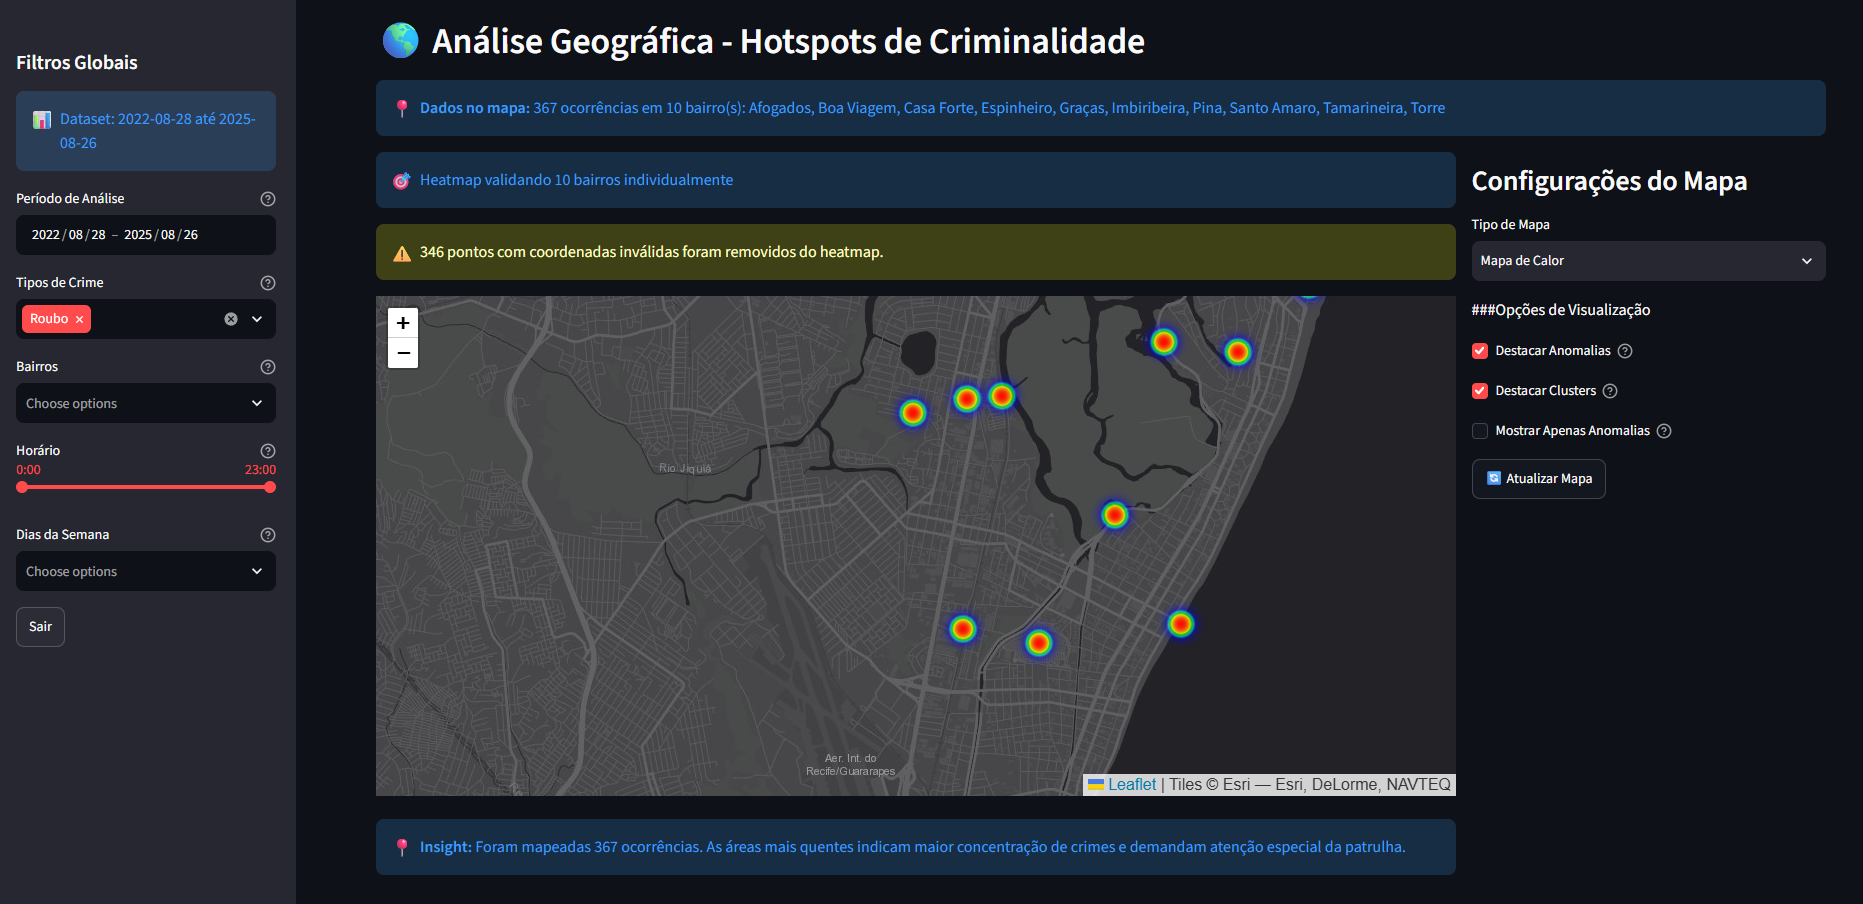
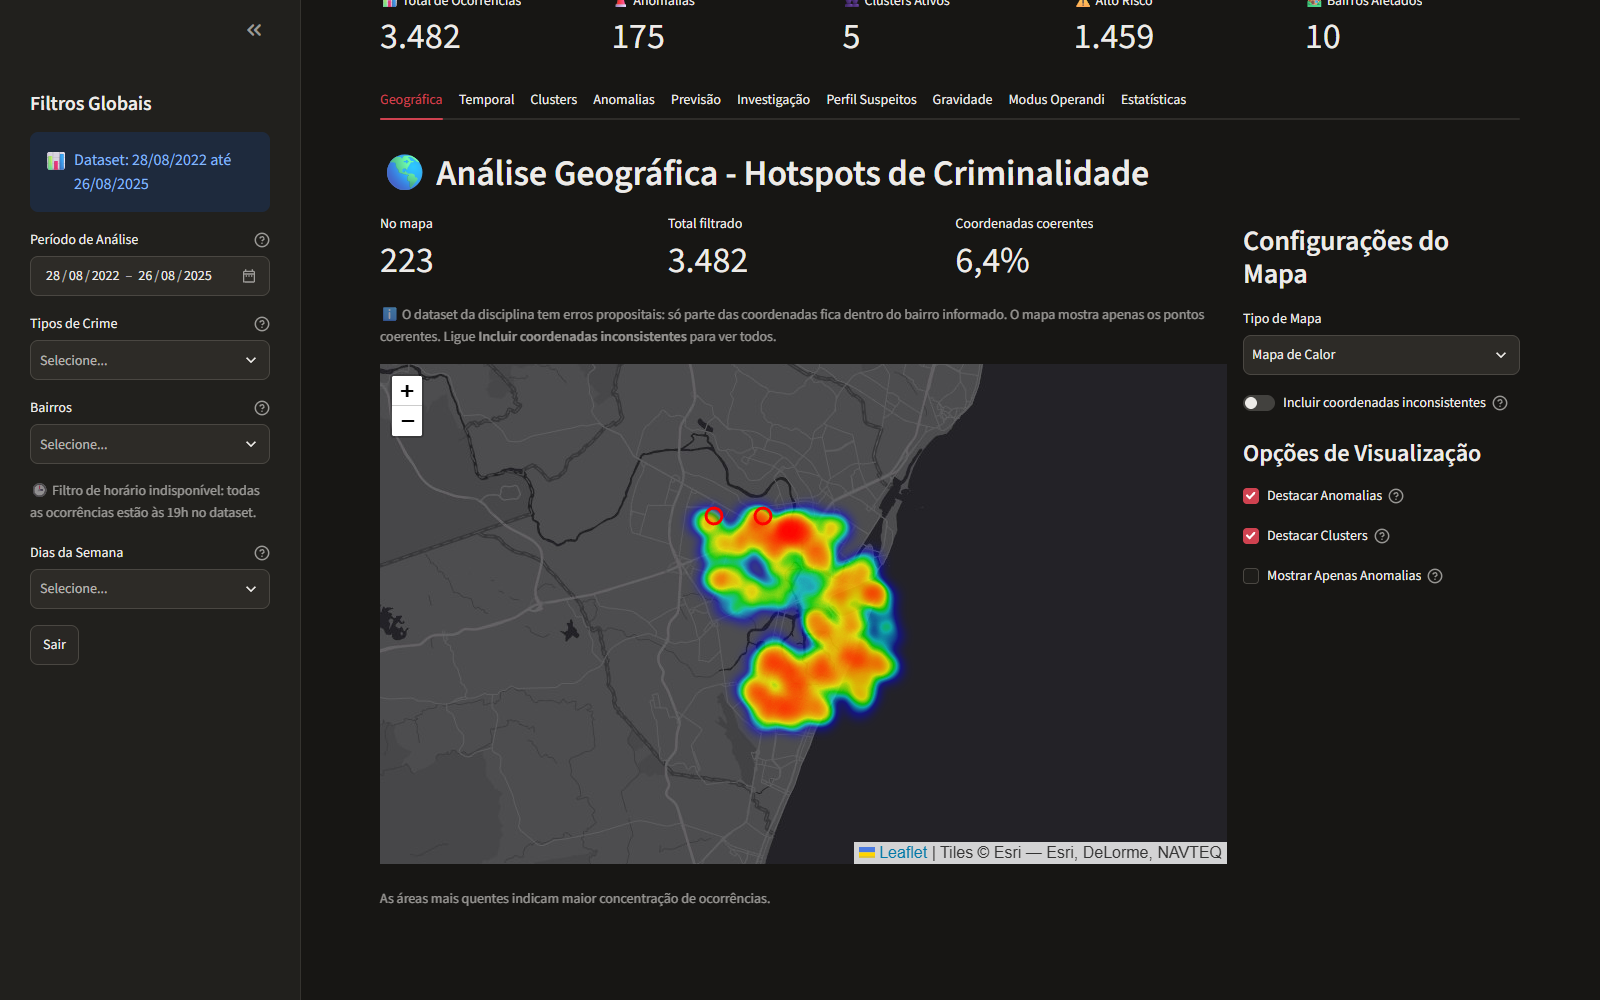
docs: atualiza as capturas de tela do README com a interface atual
- Novas imagens do mapa, da análise temporal, da previsão e do
  dashboard de violência doméstica
- Gráfico de importância das variáveis com nomes legíveis
  ("Bairro: Torre", "Dia: sábado") e aviso de que o modelo está no
  nível do acaso

diff --git a/dashboard_tabs/previsao.py b/dashboard_tabs/previsao.py
@@ -8,6 +8,24 @@ import streamlit as st
 from security_utils import SecurityManager
 from ui import metrica, mostrar_grafico
 
+PREFIXOS_VARIAVEIS = {
+    'bairro_': 'Bairro: ',
+    'dia_semana_': 'Dia: ',
+    'periodo_dia_': 'Período: ',
+}
+NOMES_VARIAVEIS = {'mes': 'Mês', 'hora': 'Hora', 'fim_semana': 'Fim de semana',
+                   'fim_semana_True': 'Fim de semana'}
+
+
+def nome_variavel(coluna: str) -> str:
+    """'dia_semana_terça-feira' -> 'Dia: terça-feira'; 'mes' -> 'Mês'."""
+    if coluna in NOMES_VARIAVEIS:
+        return NOMES_VARIAVEIS[coluna]
+    for prefixo, rotulo in PREFIXOS_VARIAVEIS.items():
+        if coluna.startswith(prefixo):
+            return rotulo + coluna[len(prefixo):]
+    return coluna
+
 
 def show_risk_prediction():
     """Aba de previsão de risco"""
@@ -120,6 +138,7 @@ def show_risk_prediction():
                     'feature': model_data['model_columns'],
                     'importance': model.feature_importances_
                 }).sort_values('importance', ascending=False).head(10)
+                importance_df['feature'] = importance_df['feature'].map(nome_variavel)
 
                 fig_importance = px.bar(
                     importance_df,
@@ -128,7 +147,10 @@ def show_risk_prediction():
                     orientation='h',
                     title="Top 10 Variáveis Mais Importantes"
                 )
+                fig_importance.update_yaxes(categoryorder='total ascending')
                 mostrar_grafico(fig_importance)
+                st.caption("Com o modelo no nível do acaso (ROC AUC ≈ 0,49), a importância "
+                           "das variáveis não indica um padrão real.")
 
         except Exception:
             st.warning("Não foi possível exibir a importância das variáveis.")

diff --git a/README.md b/README.md
@@ -30,10 +30,19 @@ O professor preparou o dataset **com erros propositais**: um dos objetivos da di
 
 > 🔎 Além dos erros, os dados são sintéticos e aleatórios, então **não existem padrões reais para os modelos aprenderem**. Os resultados de clustering e previsão devem ser lidos como demonstração técnica, e não como conclusão sobre criminalidade.
 
-## Mapa de Calor
-![Mapa de calor](docs/mapa.png)
-## Previsão
-![Previsão](docs/previsao.png)
+## 📸 Telas
+
+**Mapa de calor:** só as coordenadas coerentes com o bairro, com a contagem do que foi descartado.
+![Aba geográfica com mapa de calor](docs/mapa.png)
+
+**Análise temporal:** o app detecta que todas as ocorrências estão às 19h e troca a análise por hora pela análise por mês.
+![Aba temporal com distribuição por mês e por dia da semana](docs/temporal.png)
+
+**Previsão:** estimativa de ocorrência grave e importância das variáveis.
+![Aba de previsão com importância das variáveis](docs/previsao.png)
+
+**Dashboard de Violência Doméstica:** upload de CSV, filtros e mapa.
+![Dashboard de violência doméstica](docs/violencia_domestica.png)
 
 
 ## ✨ Funcionalidades
